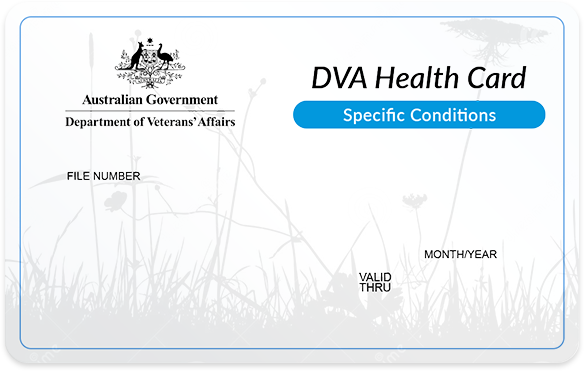
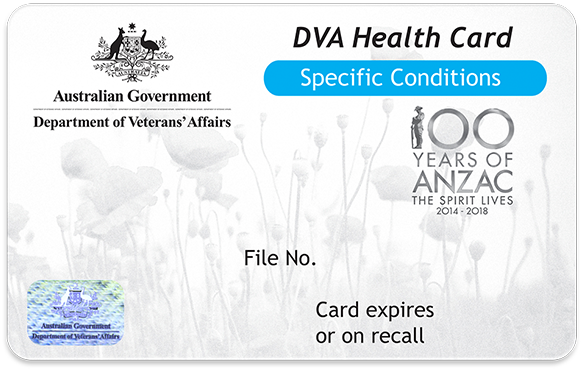
Updates to health card pages.

diff --git a/src/sass/myservice-widgets.scss b/src/sass/myservice-widgets.scss
@@ -240,6 +240,107 @@
   background-size: 34px 34px;
 }
 
+.healthcard-container {
+	width: 22em;
+	margin-left:auto;
+	margin-right:auto;
+	display:block;
+	margin-bottom: -6em;
+	#card-number {
+		position: relative;
+		top: -89px;
+		left: 200px;
+	}
+	#card-name {
+		position: relative;
+		top: -150px;
+		left: 30px;
+	}
+	#card-date {
+		position: relative;
+		top: -107px;
+		left: 275px;
+	}
+	#card-pending {
+		position: relative;
+		top: -200px;
+		left: 35px;
+	}
+	.card-text {
+		font-size: 14px;
+	}
+	.card-text--red {
+		color:red;
+		font-weight:bold;
+		font-size: 1.3em;
+		padding:0.5em 0 0.5em 0;
+		border-top:2px solid red;
+		border-bottom:2px solid red;
+	}
+	&#goldcard {
+		display: none;
+	}
+}
+
+#healthcard-index-container {
+	width: 15em;
+	display:block;
+	margin:0 auto;
+	margin-bottom: -5em;
+	#card-number {
+		position: relative;
+		top: -80px;
+		left: -20px;
+	}
+	#card-name {
+		position: relative;
+		top: -75px;
+		left: -50px;
+	}
+	#card-date {
+		position: relative;
+		top: -100px;
+		left: 80px;
+	}
+	.card-text {
+		font-size: 14px;
+	}
+}
+
+.section-feature {
+    background: #eeeeee;
+    padding: 30px 0 40px 0;
+    margin: 20px 0 20px 0;
+}
+.section-feature--white {
+	background: #ffffff;
+	padding: 30px 0 40px 0;
+	margin: 20px 0 20px 0;
+	h2 {
+		padding-bottom:0.2em;
+		border-bottom:1px solid #dddddd;
+	}
+}
+
+.healthcard-steps div {
+    margin: 2em 0 2em 0;
+    text-align: center;
+    margin: auto;
+}
+
+.healthcard-steps img {
+    width: 200px;
+}
+
+.healthcard-steps .description {
+    font-weight: 500;
+    font-size: 1.1em;
+}
+
+.healthcard-steps p {
+    margin: 10px 0 10px 0;
+}
+
 .add-claims--box {
   text-align: center;
 }

diff --git a/index.js b/index.js
@@ -351,8 +351,17 @@ app.get('/viewNLHCClaimDetail', function (request, response) {
 
 
 /* Health card */
-app.get('/healthcard', function (request, response) {
-  response.render('auth/healthcard/healthcard');
+app.get('/healthcard-home', function (request, response) {
+  response.render('auth/healthcard/healthcard-home');
+});
+app.get('/healthcard-gold', function (request, response) {
+  response.render('auth/healthcard/healthcard-gold');
+});
+app.get('/healthcard-nlhc', function (request, response) {
+  response.render('auth/healthcard/healthcard-nlhc');
+});
+app.get('/healthcard-none', function (request, response) {
+  response.render('auth/healthcard/healthcard-none');
 });
 
 
